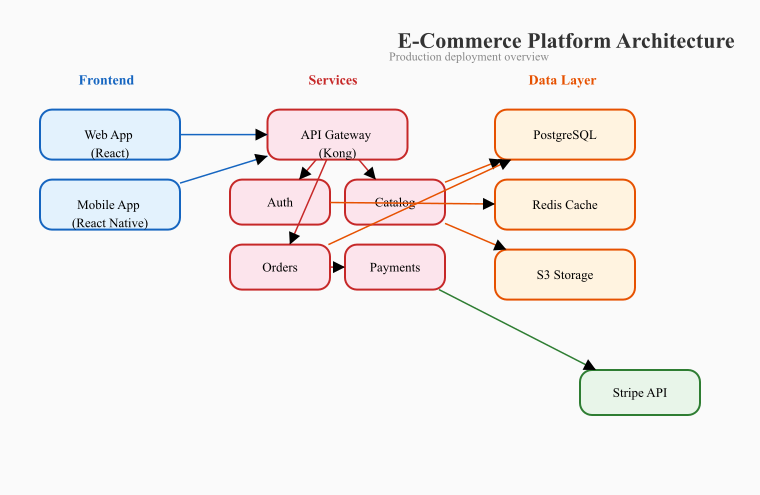
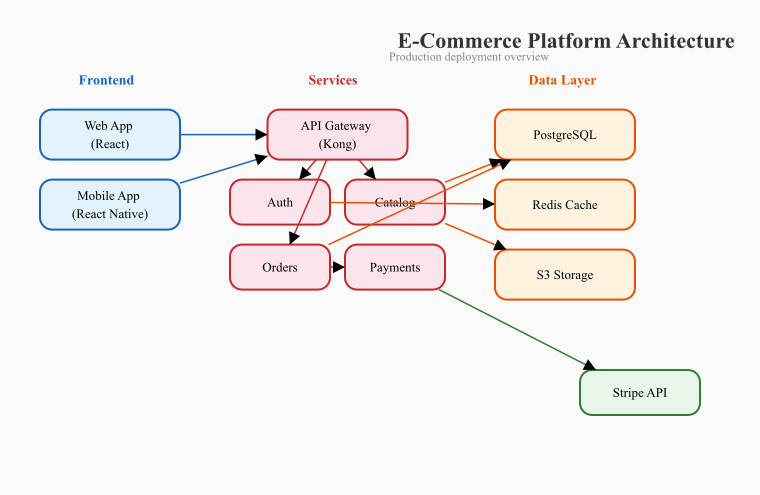
Fix multi-line text vertical centering
Multi-line text was starting at the vertical center point and
extending downward, making it look top-heavy in containers. Now
the text block is offset upward by half its height so the visual
center aligns with the layout center.

Changed region(s): [[0.3934, 0.2424, 0.4842, 0.3333], [0.0908, 0.3939, 0.2118, 0.4848], [0.0908, 0.2424, 0.1816, 0.3333]]

diff --git a/render/svg.go b/render/svg.go
@@ -285,11 +285,20 @@ func renderText(sb *strings.Builder, el *scene.Element, s *scene.Scene, indent s
 		sb.WriteString(escText(el.Text))
 		sb.WriteString("</text>\n")
 	} else {
+		// Shift y up so the text block is vertically centered.
+		// Total block height = (n-1) * lineSpacing. First line is at y,
+		// last line at y + (n-1)*lineSpacing. Center of block is at
+		// y + (n-1)*lineSpacing/2. We want that center at the original y,
+		// so offset = -(n-1)*lineSpacing/2.
+		lineSpacing := fontSize * 1.4
+		offsetY := -float64(len(lines)-1) * lineSpacing / 2
+		fmt.Fprintf(sb, ` dy="%s"`, ff(offsetY))
+
 		sb.WriteString(">\n")
 		for i, line := range lines {
 			dy := "0"
 			if i > 0 {
-				dy = ff(fontSize * 1.4)
+				dy = ff(lineSpacing)
 			}
 			fmt.Fprintf(sb, `%s  <tspan x="%s" dy="%s">%s</tspan>`+"\n", indent, ff(x), dy, escText(line))
 		}
